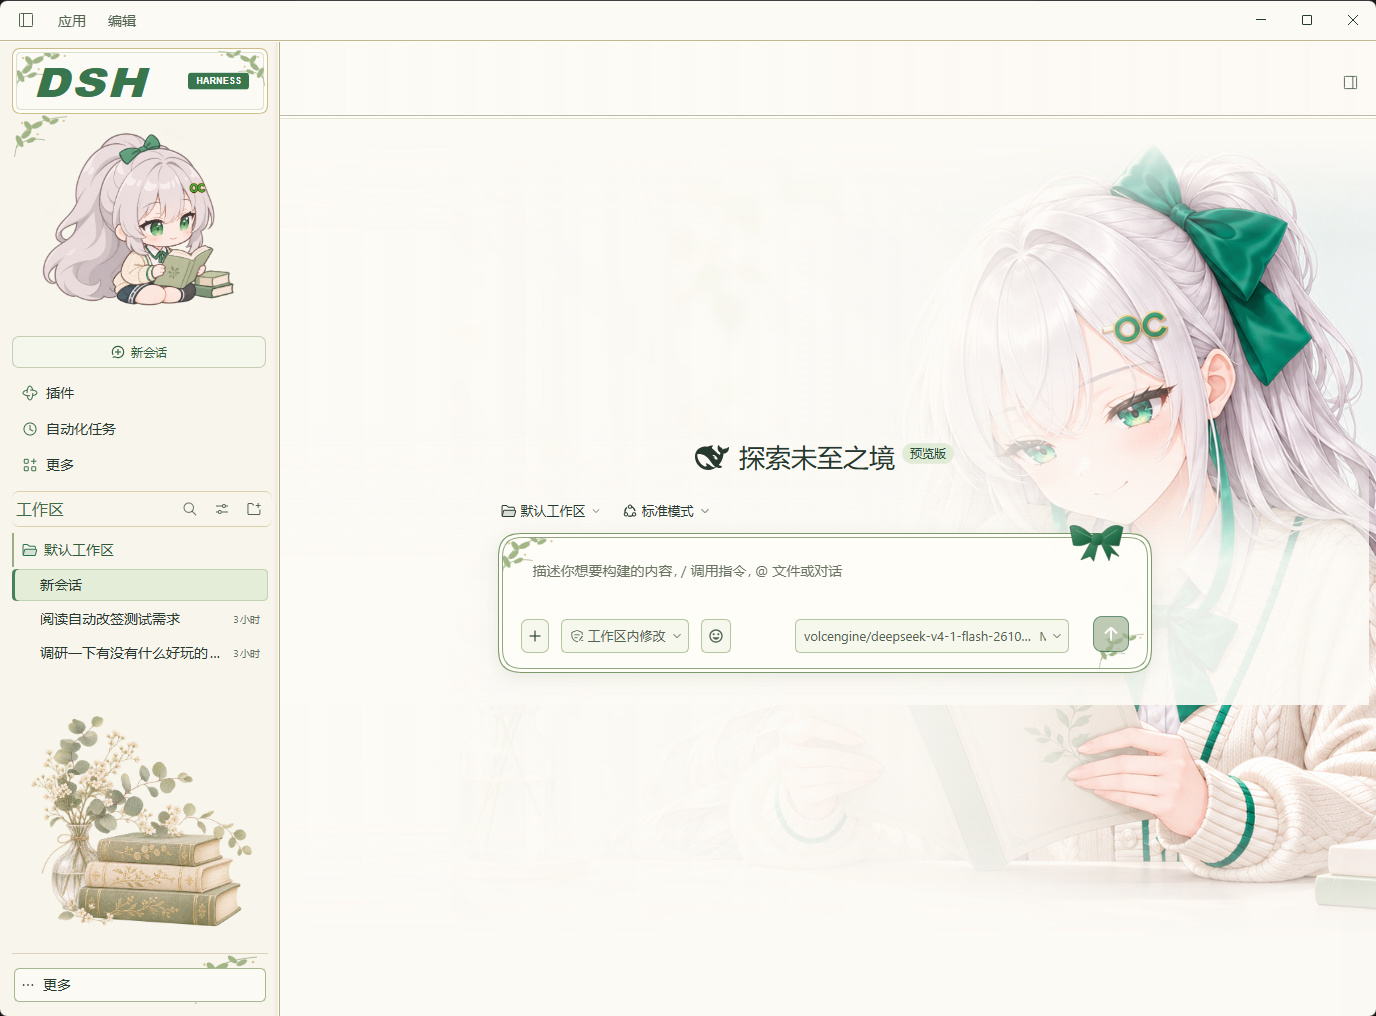
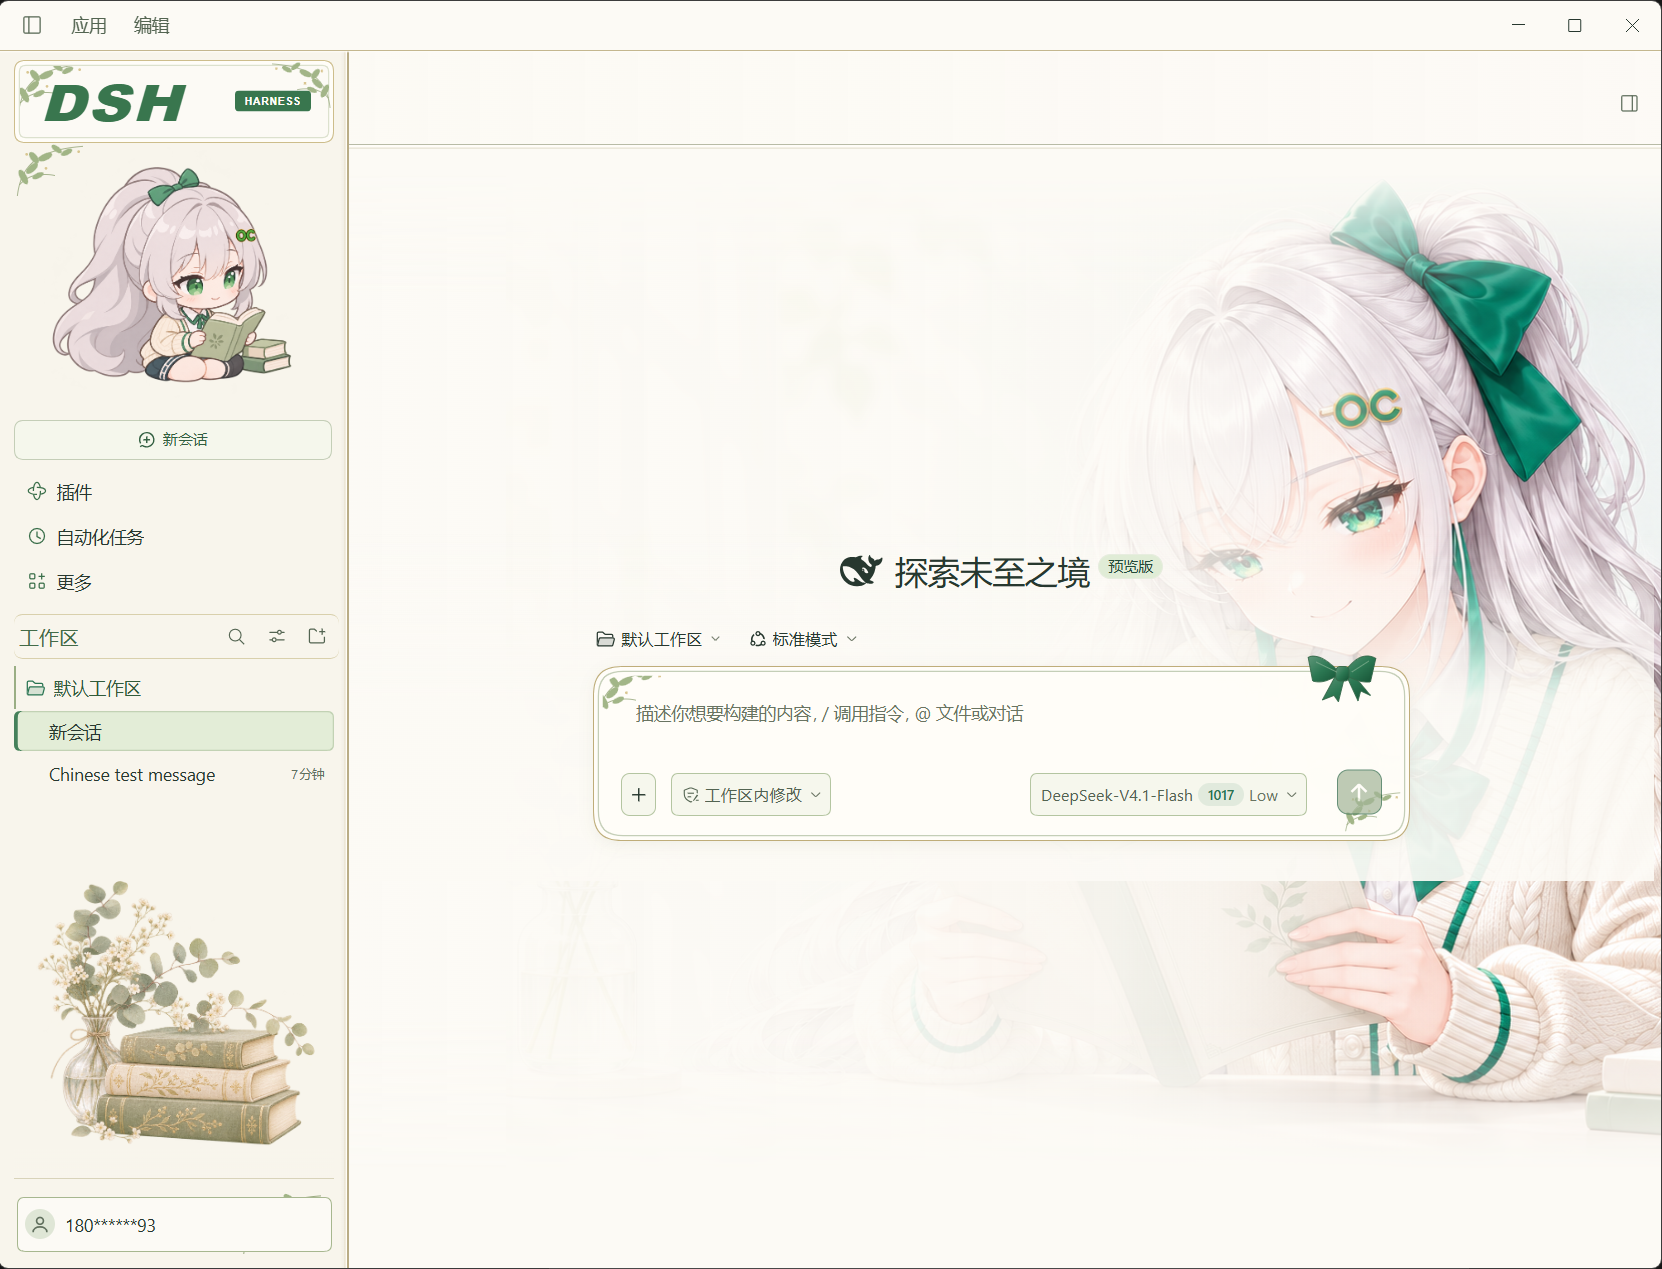
Show current desktop screenshots for both reading themes

diff --git a/README.md b/README.md
@@ -4,19 +4,19 @@
 
 ## 预览
 
-### 对话界面
+以下为 Windows 桌面版实机截图。
 
-![白绿阅读皮肤：对话界面](docs/previews/conversation.png)
+### 浅色 · 白绿阅读
 
-### 新建会话
+![白绿阅读的新会话界面](assets/preview.png)
 
-![白绿阅读皮肤：新建会话](docs/previews/new-conversation.png)
+![白绿阅读的对话界面](docs/previews/conversation.png)
 
 ### 深色 · 月下藏书室
 
-月窗下的翻书插画、侧栏持书角色与烫金书封输入框随深色外观启用。下图为浏览器组件预览。
+![月下藏书室的新会话界面](assets/preview-night.png)
 
-![月下藏书室深色组件预览](assets/preview-night.png)
+![月下藏书室的对话界面](docs/previews/night-conversation.png)
 
 ## 安装
 
@@ -87,4 +87,4 @@ npm pack
 
 ## 素材
 
-阅读角色及装饰为本主题准备的图片；上方两张图是实际运行截图。`assets/preview.png` 为皮肤管理页预览。README 截图中的对话内容和模型配置仅用于展示，不是插件附带的服务或配置。
+阅读角色及装饰为本主题准备的图片；皮肤管理页按外观展示对应的新会话截图。README 截图中的对话内容和模型配置仅用于展示，不是插件附带的服务或配置。
